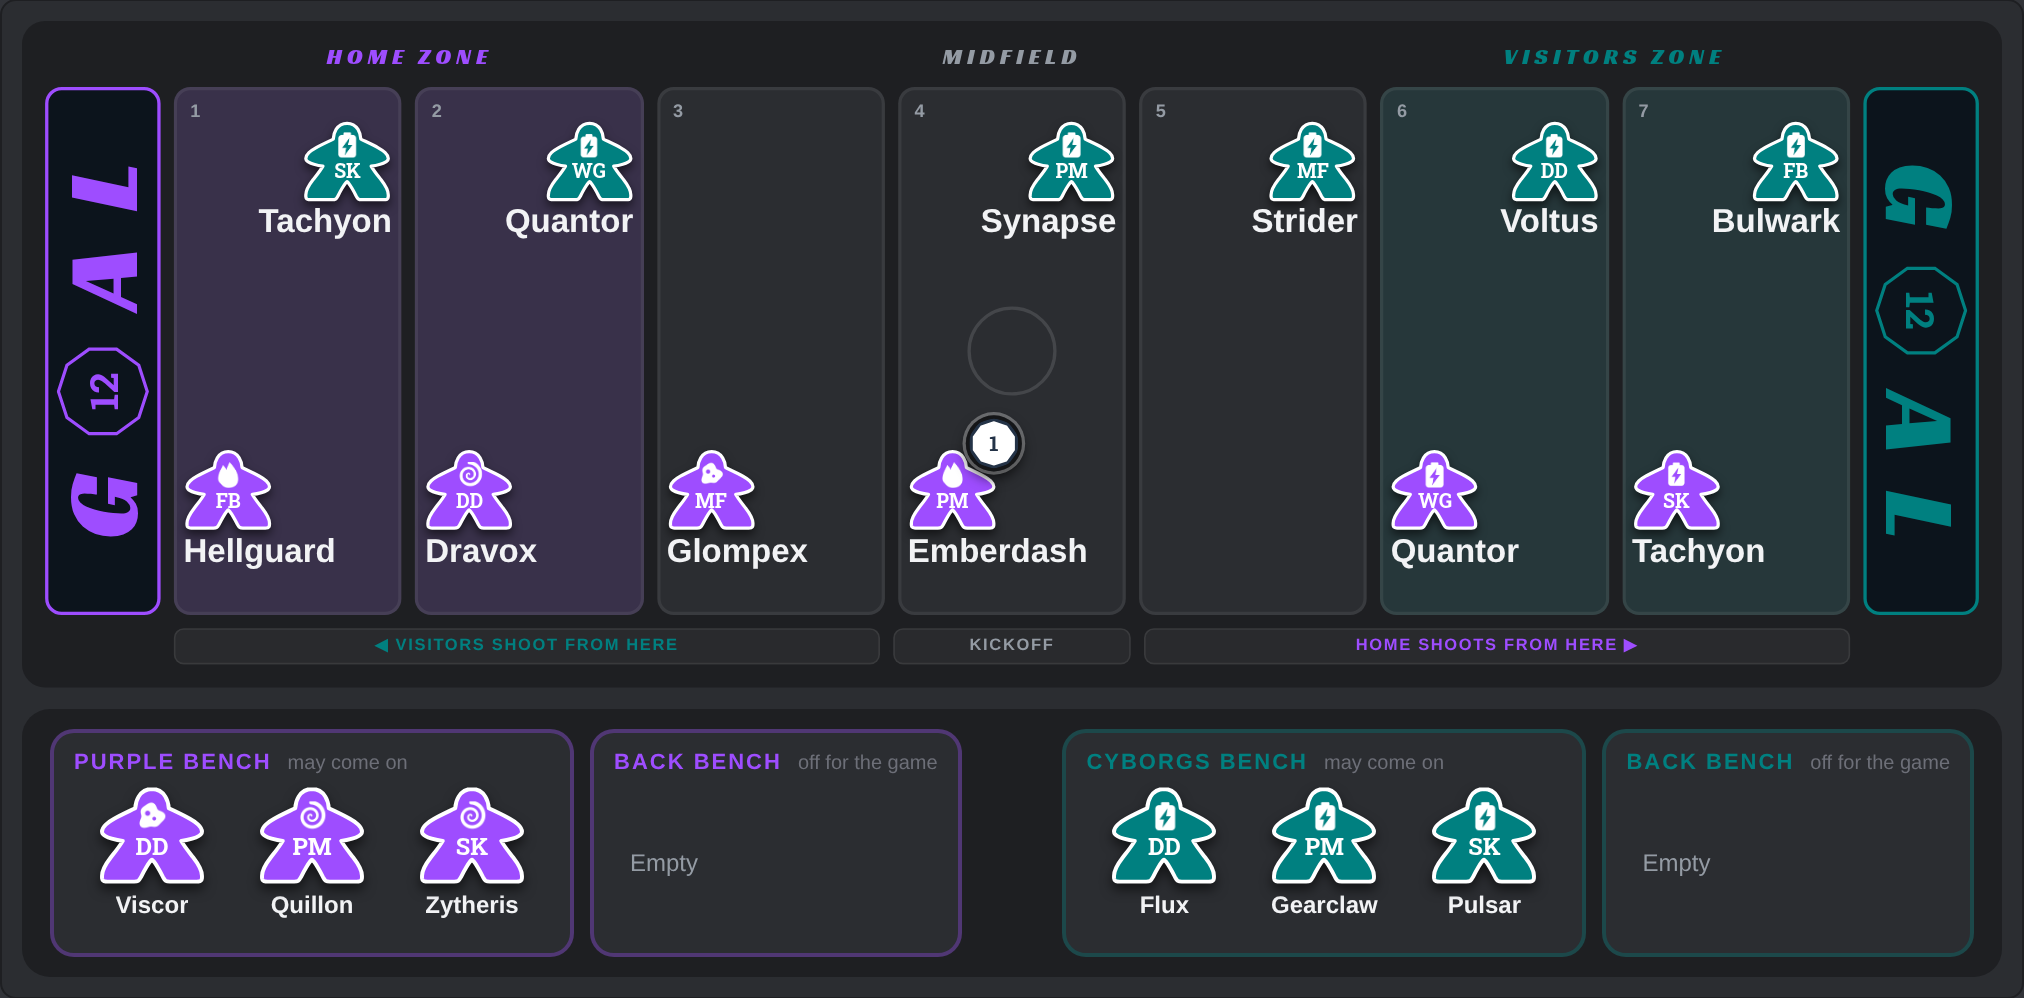
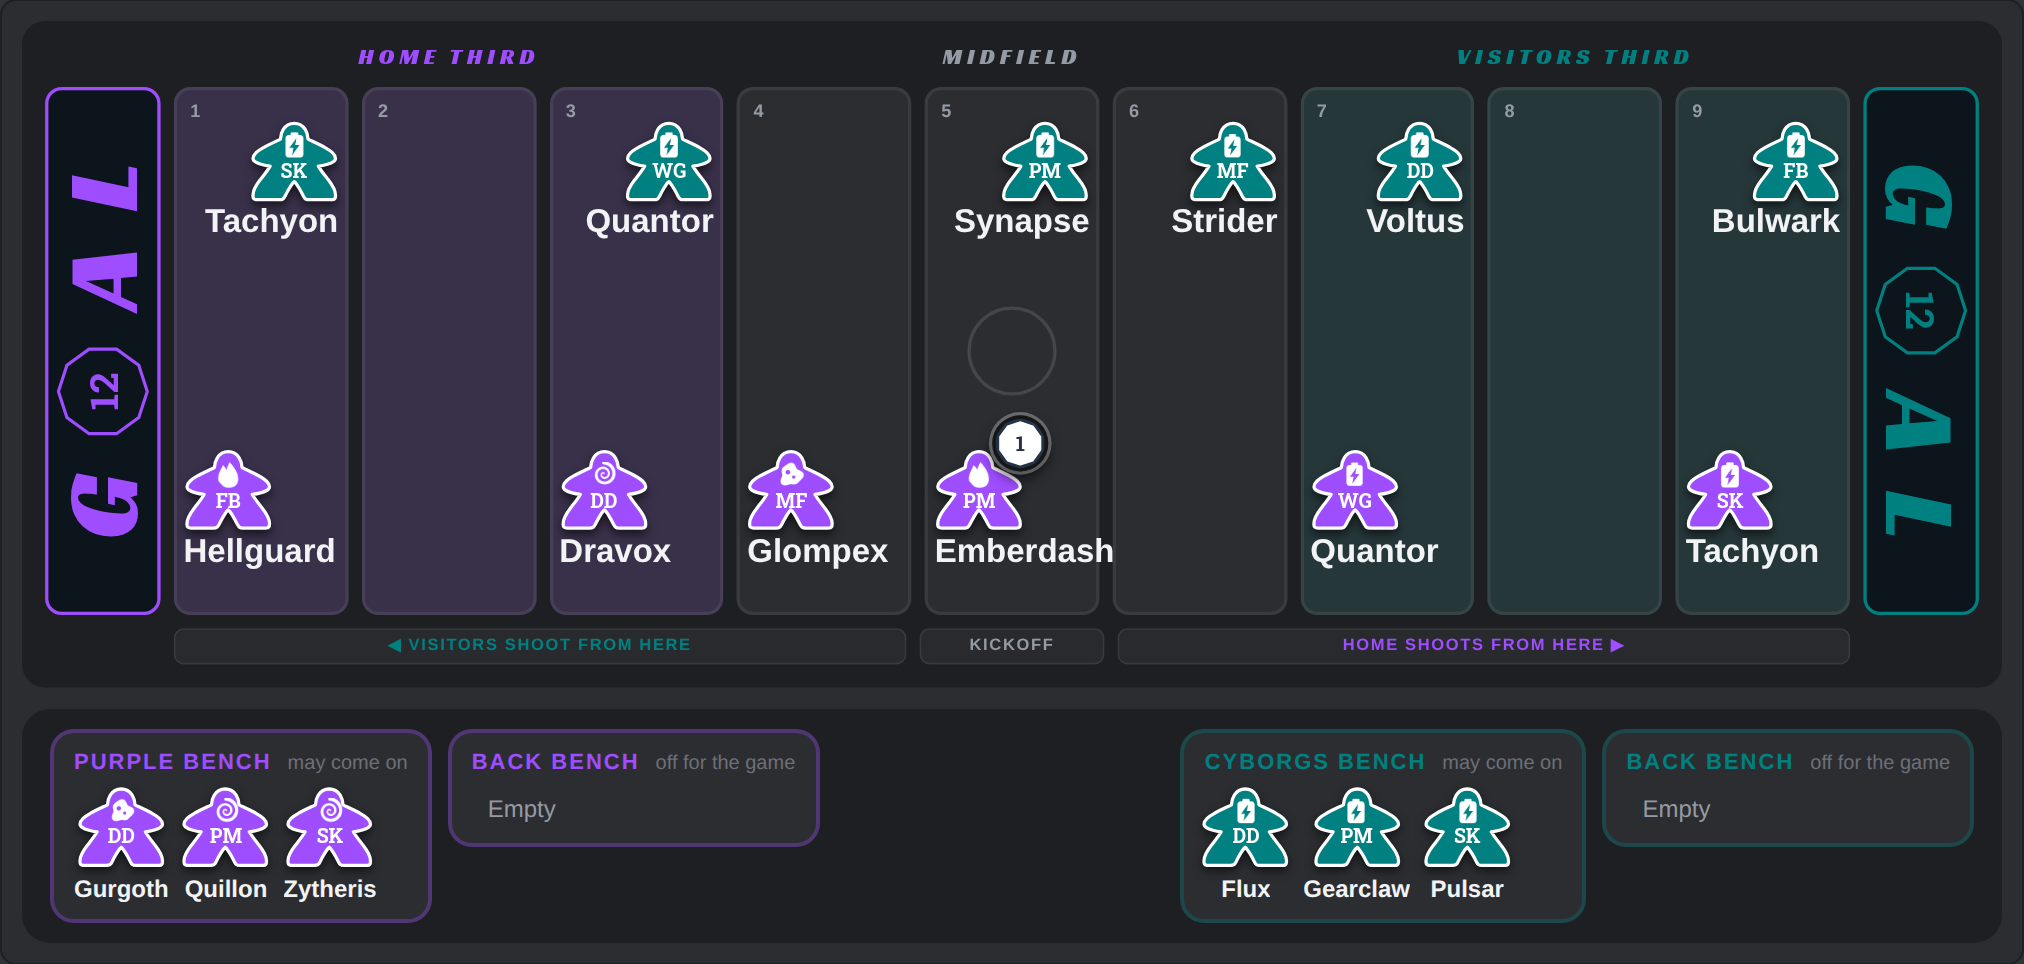
Capture the landing page's web board on the 9-space board
The author, 2026-10-06: keep the landing capture on board 9. The staged
game now names its board rather than taking the service's defaults, so
the picture does not move when they do, and `landing/d12ball/board.png`
is re-taken -- it was still the 7-space board captured before Standard
started on 9.

Claude-Session: https://claude.ai/code/session_01TepJDusCNeLLySXK5T8gYG

diff --git a/landing/capture.py b/landing/capture.py
@@ -100,13 +100,17 @@ def find_chrome() -> str | None:
 
 def stage_game(folder: Path) -> str:
     """Save one web game at kickoff into `folder/games.json`, and return
-    its id. Two coaches hold the seats, so the page's visitor watches."""
+    its id. Two coaches hold the seats, so the page's visitor watches.
+    It is a standard game on the 9-space board, named rather than left
+    to the service's defaults so the page's picture does not move with
+    them (the author, 2026-10-06)."""
     from webapp.server import build_service
 
     service = build_service(folder / "games.json")
     game = service.create_game(
         player_1_id=1, player_1_name="Home",
         player_2_id=2, player_2_name="Visitors",
+        board_size=9,
     )
     service.pick_team(game.game_id, 1, HOME_TEAM)
     service.pick_team(game.game_id, 2, VISITING_TEAM)

diff --git a/docs/design/landing-pages.md b/docs/design/landing-pages.md
@@ -197,8 +197,10 @@ The page shows **the board as the web app draws it**, not the printed board
 and not the bot's PNG -- the author's call on the canvas. `landing/capture.py`
 takes it: it stages a web game through `GameService` in a temporary directory
 (two coaches seated, Purple picked by the first and the Cyborgs by the
-second, Purple at home whoever wins the coin, the match dealt and begun, so
-it is the kickoff), runs `webapp.server.serve` over that directory alone on
+second, Purple at home whoever wins the coin, a standard game on the
+9-space board -- named, not left to the service's defaults, so the picture
+does not move with them (the author, 2026-10-06) -- the match dealt and
+begun, so it is the kickoff), runs `webapp.server.serve` over that directory alone on
 a spare local port -- every file the app would keep under `data/` named
 there instead -- opens `/room/<id>` in a headless Chrome as an observer (both
 seats are held, so the visitor takes neither), waits for the board's SVG, and
